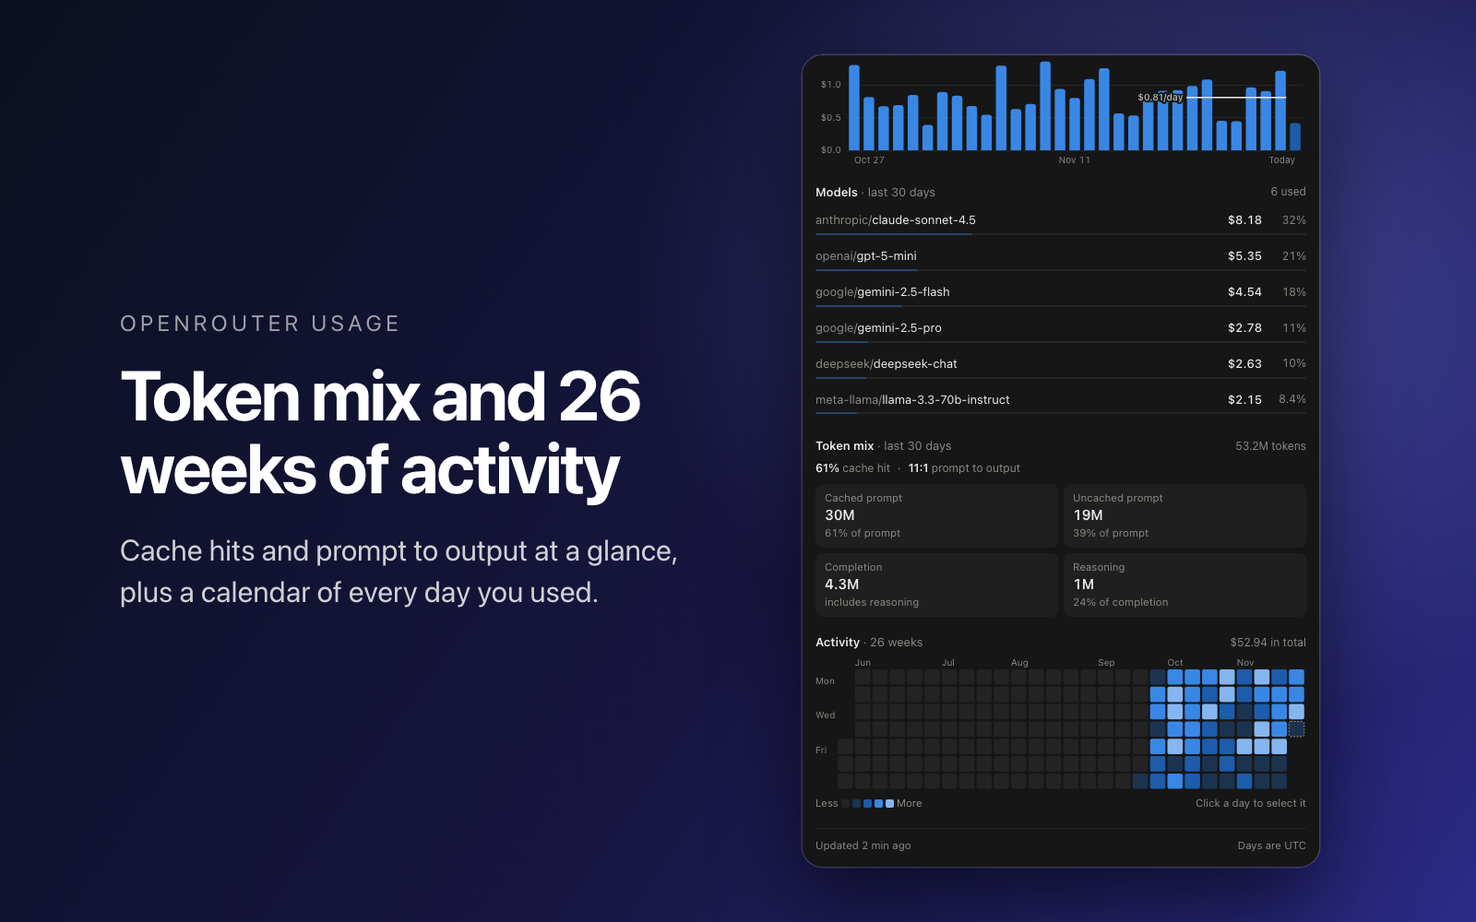
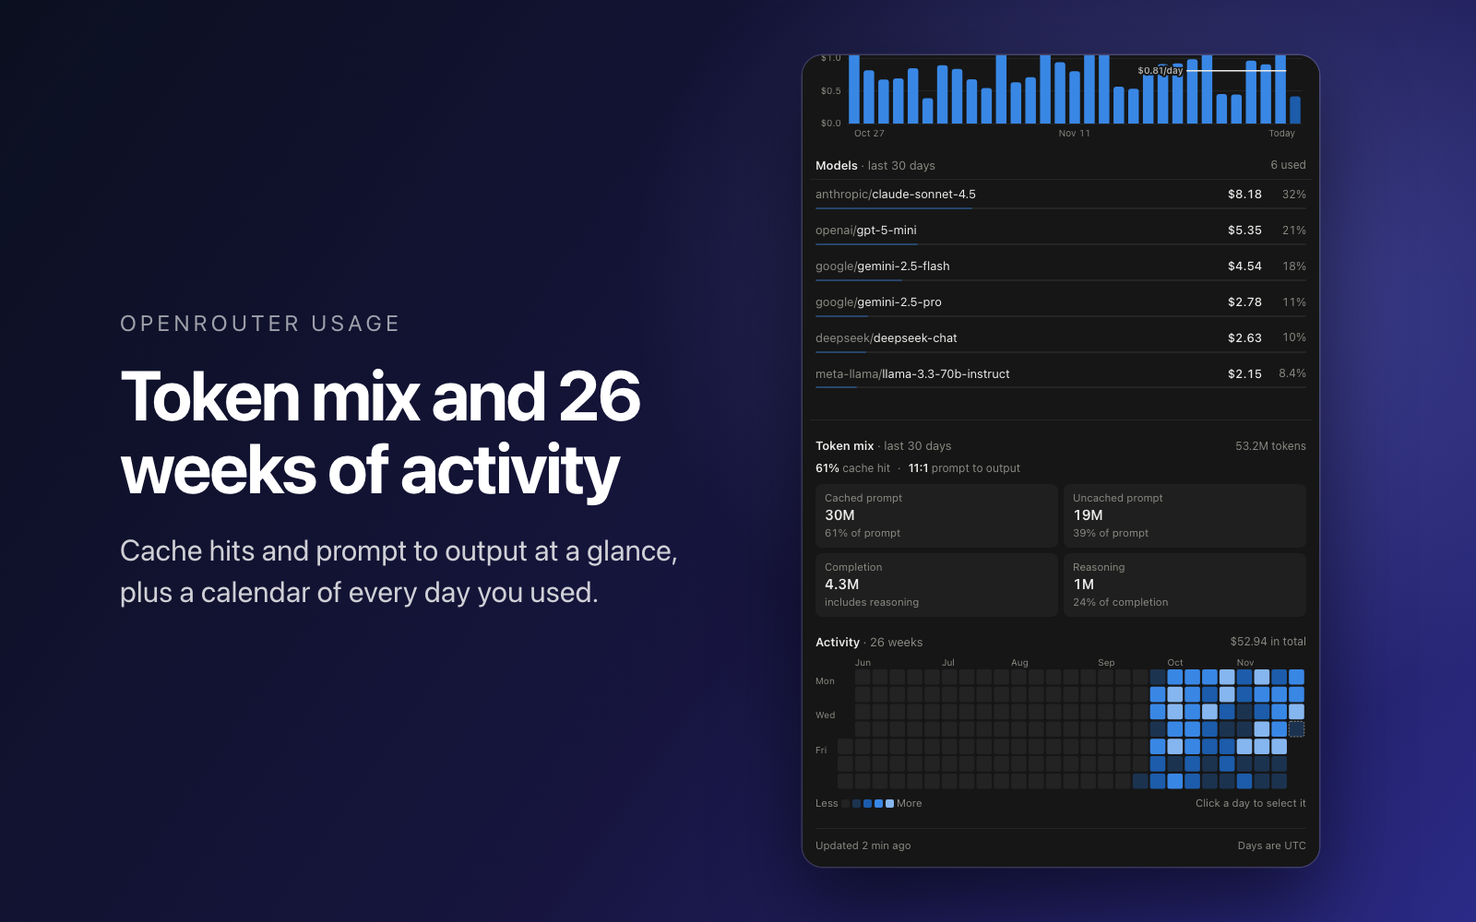
fix: group Settings, steady the Models box, hide the page scrollbar
Settings are grouped into Account, Appearance, Alerts and budgets,
Status bar and Data cards; the banner preview is half size beside its
colour and vivid controls. Models sit in a fixed-height box that scrolls
inside and keeps its scroll position, and they (with Token mix) change
only when a day is clicked; hovering updates just the readout. The page
scrollbar is hidden so it cannot appear and shift the layout.

Changed region(s): [[0.5312, 0.062, 0.9062, 0.465], [0.8125, 0.279, 0.875, 0.434]]

diff --git a/panel/index.html b/panel/index.html
@@ -55,6 +55,9 @@ html.light {
 
 * { box-sizing: border-box; }
 html, body { margin: 0; background: var(--bg); color: var(--fg); }
+/* The page scrolls without a scrollbar: one appearing and disappearing would shift the whole layout. */
+html, body { scrollbar-width: none; }
+html::-webkit-scrollbar, body::-webkit-scrollbar { display: none; width: 0; height: 0; }
 body { font: 13px/1.45 var(--orca-font-sans, system-ui, -apple-system, "Segoe UI", Roboto, sans-serif); -webkit-font-smoothing: antialiased; }
 button, input, select { font: inherit; color: inherit; }
 p { margin: 0; }
@@ -123,7 +126,6 @@ html.light .banner.c-graphite { --bn-bg: radial-gradient(90% 120% at 100% 0%, rg
 .banner.c-graphite.vivid, html.light .banner.c-graphite.vivid { --bn-bg: radial-gradient(120% 140% at 85% 20%, rgba(148,163,184,.55) 0%, rgba(148,163,184,0) 55%), linear-gradient(120deg, #0b0c0e 0%, #1f2329 45%, #475569 100%); }
 .banner.vivid, html.light .banner.vivid { --bn-fg: #ffffff; --bn-fg-2: rgba(255,255,255,.8); --bn-motif: #ffffff; --bn-btn: rgba(255,255,255,.14); --bn-line: rgba(255,255,255,.18); }
 .banner.vivid .bn-motif { width: min(62%, 300px); -webkit-mask-image: linear-gradient(90deg, transparent 0%, #000 30%); mask-image: linear-gradient(90deg, transparent 0%, #000 30%); }
-.bn-preview { margin: 4px 0 10px; pointer-events: none; }
 
 /* ---------- warnings ---------- */
 .warns { display: flex; flex-direction: column; gap: 6px; margin-top: -8px; }
@@ -191,7 +193,10 @@ h2 .scope { font-weight: 400; color: var(--muted); }
 .chart .ref-l { font-size: 10px; fill: var(--fg-2); font-weight: 600; }
 
 /* models */
-.mlist { list-style: none; margin: 4px 0 0; padding: 0; }
+.mbox { height: 262px; overflow-y: auto; overscroll-behavior: contain; margin-top: 4px; padding: 0 6px; margin-left: -6px; margin-right: -6px; border-top: 1px solid var(--hair); border-bottom: 1px solid var(--hair); scrollbar-width: thin; scrollbar-color: var(--border) transparent; }
+.mbox::-webkit-scrollbar { width: 6px; }
+.mbox::-webkit-scrollbar-thumb { background: var(--border); border-radius: 3px; }
+.mlist { list-style: none; margin: 0; padding: 0; }
 .mrow { display: grid; grid-template-columns: minmax(0, 1fr) auto 38px; column-gap: 10px; align-items: center; padding: 6px 6px 7px; margin: 0 -6px; width: calc(100% + 12px); border: 0; background: transparent; border-radius: 6px; text-align: left; font-size: 13px; }
 button.mrow { cursor: pointer; }
 button.mrow:hover { background: var(--hover); }
@@ -274,6 +279,19 @@ button.mrow:hover { background: var(--hover); }
 .switch:checked { background: var(--accent); }
 .switch:checked::after { left: 16px; }
 .saved { font-size: 12px; color: var(--ok); }
+.set-saved { margin: -10px 0 -8px; text-align: right; }
+.sgroup { display: flex; flex-direction: column; gap: 6px; }
+.sg-h h2 { font-size: 13px; }
+.sg-h p { font-size: 12px; color: var(--muted); margin-top: 1px; }
+.sg-card { border: 1px solid var(--border); border-radius: 10px; padding: 2px 12px; }
+.sg-card > .srow:first-child, .sg-card .look-ctl > .srow:first-child { border-top: 0; }
+.sg-card .conn { padding-top: 10px; }
+.look { display: grid; grid-template-columns: minmax(0, 1fr) minmax(0, 1fr); gap: 12px; align-items: center; }
+.look-ctl .srow { grid-template-columns: minmax(0, 1fr) auto; }
+.look-prev { padding: 8px 0; min-width: 0; }
+/* The preview is the real banner at half size. */
+.bn-preview { zoom: .5; margin: 0; pointer-events: none; }
+@media (max-width: 330px) { .look { grid-template-columns: minmax(0, 1fr); } .look-prev { padding-top: 0; } }
 .fine { font-size: 12px; color: var(--muted); }
 .fine + .fine { margin-top: 6px; }
 
@@ -309,7 +327,6 @@ const MONTHS = ['Jan', 'Feb', 'Mar', 'Apr', 'May', 'Jun', 'Jul', 'Aug', 'Sep', '
 const MONTHS_LONG = ['January', 'February', 'March', 'April', 'May', 'June', 'July', 'August', 'September', 'October', 'November', 'December'];
 const WD = ['Sun', 'Mon', 'Tue', 'Wed', 'Thu', 'Fri', 'Sat'];
 const SBC = [['credits', 'Nothing else'], ['credits-today', "Today's spend"], ['credits-days', 'Days left']];
-const TOP_MODELS = 6;
 const HEAT_DAYS = 182;
 const WEEKLY_AFTER = 92;   // the All range draws weekly bars once it holds more days than this
 
@@ -357,7 +374,6 @@ const state = {
   pin: null,               // pinned date range: { from, to }
   pendingPin: null,        // a heatmap day to pin once the wider range has loaded
   model: null,             // model selected in the list (range mode)
-  modelsAll: false,
   inactiveOpen: false,
   heatFocus: null
 };
@@ -549,8 +565,9 @@ function aggregate(rep, r) {
 }
 const focusRange = () => state.pin || state.hover;
 const rangeLabel = (r) => (r.from === r.to ? dLong(r.from) : 'Week of ' + dShort(r.from));
+// Models and Token mix follow a selected (clicked) day only; hovering changes just the readout.
 const scopeLabel = (rep) => {
-  const f = focusRange();
+  const f = state.pin;
   if (f) return f.from === f.to ? dShort(f.from) : 'week of ' + dShort(f.from);
   return rep.range === 'all' ? 'all time' : 'last ' + RANGE_DAYS[rep.range] + ' days';
 };
@@ -657,25 +674,22 @@ function readoutHtml(rep) {
 }
 
 function modelsHtml(rep) {
-  const f = focusRange();
+  const f = state.pin;
   const head = (side) => `<div class="sec-h"><h2 id="h-models">Models <span class="scope">· ${esc(scopeLabel(rep))}</span></h2><span class="side">${side}</span></div>`;
   if (f) {
     const a = aggregate(rep, f);
-    if (a.todayOnly) return head('') + `<p class="note-row">OpenRouter reports a UTC day's per-model split after the day ends. Today's ${esc(money(rep.tiles.today))} so far comes from your key totals.</p>`;
+    if (a.todayOnly) return head('') + `<div class="mbox"><p class="note-row">OpenRouter reports a UTC day's per-model split after the day ends. Today's ${esc(money(rep.tiles.today))} so far comes from your key totals.</p></div>`;
     const ranked = Object.entries(a.byModel).filter(([, v]) => v > 0).sort((x, y) => y[1] - x[1]);
     const total = ranked.reduce((s, [, v]) => s + v, 0);
     const rows = ranked.map(([id, v]) => {
       const [vd, nm] = splitName(id);
       return `<li><div class="mrow" title="${esc(id)}"><span class="n"><span class="vd">${esc(vd)}</span>${esc(nm)}</span><span class="val">${esc(fmtV(v))}</span><span class="pct">${pct(total ? v / total : 0)}</span><span class="bar" aria-hidden="true"><i style="width:${Math.max(1, total ? (v / total) * 100 : 0).toFixed(1)}%"></i></span></div></li>`;
     }).join('');
-    return head(`${ranked.length} used`) + `<ul class="mlist">${rows || '<li class="note-row">No usage on this day.</li>'}</ul>`;
+    return head(`${ranked.length} used`) + `<div class="mbox"><ul class="mlist">${rows || '<li class="note-row">No usage on this day.</li>'}</ul></div>`;
   }
   const list = rep.models.slice().sort((x, y) => modelVal(y) - modelVal(x));
   const total = list.reduce((s, m) => s + modelVal(m), 0);
-  const top = list.length === TOP_MODELS + 1 ? TOP_MODELS + 1 : TOP_MODELS;
-  const shown = state.modelsAll ? list : list.slice(0, top);
-  const rest = list.slice(top);
-  const rows = shown.map((m) => {
+  const rows = list.map((m) => {
     const [vd, nm] = splitName(m.name);
     const v = modelVal(m);
     const open = state.model === m.name;
@@ -683,14 +697,7 @@ function modelsHtml(rep) {
       <span class="n"><span class="vd">${esc(vd)}</span>${esc(nm)}</span><span class="val">${esc(fmtV(v))}</span><span class="pct">${pct(total ? v / total : 0)}</span>
       <span class="bar" aria-hidden="true"><i style="width:${Math.max(1, total ? (v / total) * 100 : 0).toFixed(1)}%"></i></span></button>${open ? modelDetailHtml(rep, m) : ''}</li>`;
   }).join('');
-  let more = '';
-  if (rest.length && !state.modelsAll) {
-    const rv = rest.reduce((s, m) => s + modelVal(m), 0);
-    more = `<li><button type="button" class="mrow more" data-act="models-more" data-fk="models-more" aria-expanded="false"><span class="n">${rest.length} more model${rest.length === 1 ? '' : 's'}</span><span class="val">${esc(fmtV(rv))}</span><span class="pct">${pct(total ? rv / total : 0)}</span></button></li>`;
-  } else if (state.modelsAll && list.length > top) {
-    more = `<li><button type="button" class="mrow more" data-act="models-more" data-fk="models-more" aria-expanded="true"><span class="n">Show the top ${top} only</span><span></span><span></span></button></li>`;
-  }
-  return head(`${list.length} used`) + `<ul class="mlist">${rows || '<li class="note-row">No models in this range.</li>'}${more}</ul>`;
+  return head(`${list.length} used`) + `<div class="mbox" tabindex="-1"><ul class="mlist">${rows || '<li class="note-row">No models in this range.</li>'}</ul></div>`;
 }
 
 function modelDetailHtml(rep, m) {
@@ -709,7 +716,7 @@ function modelDetailHtml(rep, m) {
 }
 
 function mixHtml(rep) {
-  const f = focusRange();
+  const f = state.pin;
   const head = (side) => `<div class="sec-h"><h2 id="h-mix">Token mix <span class="scope">· ${esc(scopeLabel(rep))}</span></h2><span class="side">${side}</span></div>`;
   let x = rep.mix;
   if (f) {
@@ -861,10 +868,8 @@ function heatReadout(date) {
 function updateFocus() {
   const rep = state.report;
   if (!rep || state.tab !== 'usage') return;
-  const ro = $('#u-readout'), mo = $('#u-models'), mx = $('#u-mix');
+  const ro = $('#u-readout');
   if (ro) ro.innerHTML = readoutHtml(rep);
-  if (mo) mo.innerHTML = modelsHtml(rep);
-  if (mx) mx.innerHTML = mixHtml(rep);
   const f = focusRange();
   const bs = buckets(rep);
   const fi = f ? bs.findIndex((b) => f.from >= b.from && f.from <= b.to) : -1;
@@ -875,7 +880,6 @@ function pinRange(r) {
   const same = state.pin && r && state.pin.from === r.from && state.pin.to === r.to;
   state.pin = same ? null : r;
   state.hover = null;
-  state.modelsAll = false;
   if (state.pin) state.model = null;
   render();
 }
@@ -954,47 +958,41 @@ function settingsHtml() {
   const row = (t, d, ctl, dis) => `<div class="srow${dis ? ' dis' : ''}"><div><div class="t">${t}</div>${d ? `<div class="d">${d}</div>` : ''}</div>${ctl}</div>`;
   const num = (key, label, pre, suf, attrs) => `<label class="num">${pre || ''}<input type="number" inputmode="decimal" ${attrs} value="${esc(s[key])}" aria-label="${esc(label)}" data-set="${key}" data-fk="set:${key}">${suf || ''}</label>`;
   const sw = (key, label) => `<input type="checkbox" class="switch" role="switch" aria-label="${esc(label)}" data-set="${key}" data-fk="set:${key}"${s[key] ? ' checked' : ''}>`;
+  // One group: a heading with a one-line purpose, then its rows in a card.
+  const group = (id, title, about, body) => `<section class="sgroup" aria-labelledby="h-${id}"><div class="sg-h"><h2 id="h-${id}">${title}</h2>${about ? `<p>${about}</p>` : ''}</div><div class="sg-card">${body}</div></section>`;
   const r = state.connRes;
   const conn = state.confirmDisc
     ? `<div class="confirm"><span>Remove the stored key from Orca?</span><button type="button" class="btn danger" data-act="disconnect-yes" data-fk="disconnect-yes">Disconnect</button><button type="button" class="btn ghost" data-act="disconnect-no" data-fk="disconnect-no">Cancel</button></div>`
     : `<button type="button" class="btn" data-act="conn-test" data-fk="conn-test">${state.connBusy ? '<span class="spinner" aria-hidden="true"></span>Testing…' : 'Test connection'}</button><button type="button" class="btn" data-act="replace" data-fk="replace" aria-expanded="${state.replaceOpen}">Replace key</button><button type="button" class="btn ghost danger" data-act="disconnect-ask" data-fk="disconnect-ask">Disconnect</button>`;
   const recent = state.savedAt && Date.now() - state.savedAt < 1600;
-  const opts = !s
-    ? `<p class="${state.settingsErr ? 'err-t' : 'muted'}">${state.settingsErr ? 'Could not load settings: ' + esc(state.settingsErr) : 'Loading settings…'}</p>`
-    : `<section aria-labelledby="h-alerts">
-      <div class="sec-h"><h2 id="h-alerts">Refresh and alerts</h2><span id="set-saved" class="${recent ? 'saved' : 'side'}" role="status">${recent ? 'Saved' : 'Saves when you leave a field'}</span></div>
-      ${row('Refresh every', 'How often Orca checks OpenRouter', num('refreshMinutes', 'Refresh interval in minutes', '', 'min', 'min="1" max="120" step="1"'))}
-      ${row('Low-balance alert', 'Warn when credits drop below this. 0 turns it off.', num('lowBalanceUsd', 'Low balance alert in dollars', '$', '', 'min="0" step="any"'))}
-      ${row('Daily budget', "Notify once when today's spend passes it. 0 turns it off.", num('dailyBudgetUsd', 'Daily budget in dollars', '$', '', 'min="0" step="any"'))}
-      ${row('Monthly budget', 'Warn when spend or its pace passes it. 0 turns it off.', num('monthlyBudgetUsd', 'Monthly budget in dollars', '$', '', 'min="0" step="any"'))}
-      ${row('Desktop notifications', 'For low balance and budgets', sw('notifications', 'Desktop notifications'))}
-    </section>
-    <section aria-labelledby="h-sb">
-      <h2 id="h-sb">Status bar</h2>
-      ${row('Show credits in the status bar', '', sw('statusBar', 'Show credits in the status bar'))}
-      ${row('Next to credits', '', `<select class="select" aria-label="Status bar shows" data-set="statusBarContent" data-fk="set:statusBarContent"${s.statusBar ? '' : ' disabled'}>${SBC.map(([v, l]) => `<option value="${v}"${s.statusBarContent === v ? ' selected' : ''}>${esc(l)}</option>`).join('')}</select>`, !s.statusBar)}
-    </section>
-    <section aria-labelledby="h-look">
-      <h2 id="h-look">Banner</h2>
-      ${state.report ? bannerHtml(true) : ''}
-      ${row('Colour', '', `<select class="select" aria-label="Banner colour" data-set="bannerColor" data-fk="set:bannerColor">${BANNER_COLORS.map(([v, l]) => `<option value="${v}"${s.bannerColor === v ? ' selected' : ''}>${l}</option>`).join('')}</select>`)}
-      ${row('Vivid', 'Bold and saturated instead of the quiet gradient', sw('bannerVivid', 'Vivid banner'))}
-    </section>
-    <section aria-labelledby="h-spendset">
-      <h2 id="h-spendset">Spend</h2>
-      ${row('Count BYOK usage', 'Include requests made with your own provider keys', sw('includeByok', 'Count BYOK usage in spend'))}
-    </section>`;
-  return `<section aria-labelledby="h-conn">
-      <h2 id="h-conn">Connection</h2>
-      <div class="conn"><span class="ic">${ICON.check}</span><div class="who"><b>${esc(st.keyLabel || 'Management key')}</b><div>Management key, stored in Orca's encrypted secrets</div></div></div>
-      ${r ? `<p class="conn-res ${r.ok ? 'ok-t' : 'err-t'}" role="${r.ok ? 'status' : 'alert'}">${r.ok ? 'Connected as ' + esc(r.label) : esc(r.error)}</p>` : ''}
-      <div class="conn-acts">${conn}</div>
-      ${state.replaceOpen ? keyFormHtml() : ''}
-    </section>
-    ${opts}
+  const account = group('conn', 'Account', '', `
+    <div class="conn"><span class="ic">${ICON.check}</span><div class="who"><b>${esc(st.keyLabel || 'Management key')}</b><div>Management key, stored in Orca's encrypted secrets</div></div></div>
+    ${r ? `<p class="conn-res ${r.ok ? 'ok-t' : 'err-t'}" role="${r.ok ? 'status' : 'alert'}">${r.ok ? 'Connected as ' + esc(r.label) : esc(r.error)}</p>` : ''}
+    <div class="conn-acts">${conn}</div>
+    ${state.replaceOpen ? keyFormHtml() : ''}`);
+  if (!s) return account + `<p class="${state.settingsErr ? 'err-t' : 'muted'}">${state.settingsErr ? 'Could not load settings: ' + esc(state.settingsErr) : 'Loading settings…'}</p>`;
+  const look = group('look', 'Appearance', '', `<div class="look">
+      <div class="look-ctl">
+        ${row('Colour', '', `<select class="select" aria-label="Banner colour" data-set="bannerColor" data-fk="set:bannerColor">${BANNER_COLORS.map(([v, l]) => `<option value="${v}"${s.bannerColor === v ? ' selected' : ''}>${l}</option>`).join('')}</select>`)}
+        ${row('Vivid', 'Bold instead of quiet', sw('bannerVivid', 'Vivid banner'))}
+      </div>
+      <div class="look-prev">${state.report ? bannerHtml(true) : ''}</div>
+    </div>`);
+  const alerts = group('alerts', 'Alerts and budgets', 'A value of 0 turns an alert off. Budgets only warn; usage is never blocked.', `
+    ${row('Low balance', 'When credits drop below', num('lowBalanceUsd', 'Low balance alert in dollars', '$', '', 'min="0" step="any"'))}
+    ${row('Daily budget', "When today's spend passes", num('dailyBudgetUsd', 'Daily budget in dollars', '$', '', 'min="0" step="any"'))}
+    ${row('Monthly budget', 'When spend or its pace passes', num('monthlyBudgetUsd', 'Monthly budget in dollars', '$', '', 'min="0" step="any"'))}
+    ${row('Desktop notifications', 'Also notify outside the panel', sw('notifications', 'Desktop notifications'))}`);
+  const bar = group('sb', 'Status bar', '', `
+    ${row('Show credits', '', sw('statusBar', 'Show credits in the status bar'))}
+    ${row('Next to credits', '', `<select class="select" aria-label="Status bar shows" data-set="statusBarContent" data-fk="set:statusBarContent"${s.statusBar ? '' : ' disabled'}>${SBC.map(([v, l]) => `<option value="${v}"${s.statusBarContent === v ? ' selected' : ''}>${esc(l)}</option>`).join('')}</select>`, !s.statusBar)}`);
+  const data = group('data', 'Data', '', `
+    ${row('Refresh every', 'How often Orca checks OpenRouter', num('refreshMinutes', 'Refresh interval in minutes', '', 'min', 'min="1" max="120" step="1"'))}
+    ${row('Count BYOK usage', 'Requests made with your own provider keys', sw('includeByok', 'Count BYOK usage in spend'))}`);
+  return `<p id="set-saved" class="${recent ? 'saved' : 'side'} set-saved" role="status">${recent ? 'Saved' : 'Changes save on their own'}</p>
+    ${account}${look}${alerts}${bar}${data}
     <section aria-label="About the numbers">
-      <p class="fine">Today is approximate because it comes from key totals. Ranges longer than 30 days fill in from the day you installed.</p>
-      <p class="fine">Days follow UTC. For you a new day starts at ${esc(utcDayStartLocal())}.</p>
+      <p class="fine">Today is approximate because it comes from key totals. Ranges longer than 30 days fill in from the day you installed. Days follow UTC; for you a new day starts at ${esc(utcDayStartLocal())}.</p>
     </section>`;
 }
 
@@ -1057,7 +1055,11 @@ function render() {
     const k = el.id || el.getAttribute('data-fk');
     if (k && (el.type === 'password' || el === active)) keep[k] = { v: el.value, a: el.selectionStart, b: el.selectionEnd };
   });
+  const box = app.querySelector('#u-models .mbox');
+  const boxTop = box ? box.scrollTop : 0;
   app.innerHTML = bodyHtml();
+  const box2 = app.querySelector('#u-models .mbox');
+  if (box2 && boxTop) box2.scrollTop = boxTop;
   Object.keys(keep).forEach((id) => {
     const el = document.getElementById(id) || [...app.querySelectorAll('input[data-fk]')].find((e) => e.getAttribute('data-fk') === id);
     if (el && el.value !== keep[id].v) {
@@ -1241,7 +1243,7 @@ function saveSetting(field, value) {
     setTimeout(() => {
       if (state.savedAt !== at) return;
       const m = $('#set-saved');
-      if (m) { m.className = 'side'; m.textContent = 'Saves when you leave a field'; }
+      if (m) { m.className = 'side set-saved'; m.textContent = 'Changes save on their own'; }
     }, 1500);
     if (field === 'includeByok' || field === 'monthlyBudgetUsd' || field === 'lowBalanceUsd') loadReport(true);
   }).catch((e) => {
@@ -1285,7 +1287,7 @@ app.addEventListener('click', (e) => {
   switch (el.dataset.act) {
     case 'tab': if (state.tab !== v) selectTab(v); break;
     case 'range':
-      if (state.range !== v) { state.range = v; state.pin = null; state.hover = null; state.model = null; state.modelsAll = false; savePrefs(); loadReport(); }
+      if (state.range !== v) { state.range = v; state.pin = null; state.hover = null; state.model = null; savePrefs(); loadReport(); }
       break;
     case 'measure':
       if (state.measure !== v) { state.measure = v; savePrefs(); loadReport(); }
@@ -1294,7 +1296,6 @@ app.addEventListener('click', (e) => {
       if (state.keysRange !== v) { state.keysRange = v; savePrefs(); render(); }
       break;
     case 'model': state.model = state.model === v ? null : v; render(); break;
-    case 'models-more': state.modelsAll = !state.modelsAll; render(); break;
     case 'unpin': state.pin = null; state.hover = null; render(); break;
     case 'inactive': state.inactiveOpen = !state.inactiveOpen; render(); break;
     case 'menu': state.menu = !state.menu; render(); if (state.menu) focusFk('export:daily'); break;

diff --git a/CHANGELOG.md b/CHANGELOG.md
@@ -7,13 +7,14 @@ A redesign: one answer first, detail on demand.
 - Three tabs instead of five: **Usage**, **Keys** and **Settings**. The Ledger and the separate Models tab are folded into Usage.
 - The banner stays, quieter: credits left, how long they last at your recent rate, and an **Add credits** button.
 - Warnings sit under the banner, each with an × to close it: credits running out, keys near or at their limit, keys expiring or expired, and a monthly budget being passed. A closed warning comes back only when something changes, such as a new day or a new month.
-- **Usage** leads with Today and this month (with budget progress), then a one-colour daily chart with your 7-day burn drawn over the days it averages. Hover a bar to preview a day, or click it to select it: the Models list and Token mix switch to that day, with every model listed.
-- Click a model to open its details inline (requests, cost per request, change against the previous period, tokens, cache hit, cost per 1M tokens) and see its share in every bar.
+- **Usage** leads with Today and this month (with budget progress), then a one-colour daily chart with your 7-day burn drawn over the days it averages. Hover a bar to read that day's total; click it to select the day, and the Models list and Token mix switch to it.
+- Models sit in a fixed-height box that scrolls inside, with every model listed, so the page does not jump around. Click a model to open its details inline (requests, cost per request, change against the previous period, tokens, cache hit, cost per 1M tokens) and see its share in every bar.
 - **Token mix** is now four numbers that follow the range or the selected day: cached prompt, uncached prompt, completion and reasoning, with the cache hit rate and the prompt-to-output ratio.
 - The **activity heatmap** covers 26 weeks, follows Cost or Tokens, and selects a day when you click it, widening the range when needed.
 - **Keys** has its own 7D, 30D and All switch, shows badges only when a key needs attention, and folds inactive keys away.
-- Settings keep the same options in a calmer layout. CSV export moved to the ⋯ menu.
-- Choose the banner's **colour** (purple, gold, teal, rose or graphite) and switch **Vivid** on for a bold version, with a live preview in Settings. Both are regular plugin settings, so they also appear in Orca's settings. When credits run short, the banner keeps your colour and shows a warning icon; the warnings below it carry the details.
+- Settings keep the same options, grouped into Account, Appearance, Alerts and budgets, Status bar and Data. CSV export moved to the ⋯ menu.
+- The page no longer shows a scrollbar that comes and goes and shifts the layout.
+- Choose the banner's **colour** (purple, gold, teal, rose or graphite) and switch **Vivid** on for a bold version, with a half-size live preview beside the controls in Settings. Both are regular plugin settings, so they also appear in Orca's settings. When credits run short, the banner keeps your colour and shows a warning icon; the warnings below it carry the details.
 - Follows Orca's light and dark themes for the charts and accents as well as the surfaces.
 - No new permissions. Orca may ask you to review the new banner settings when you update.
 

diff --git a/README.md b/README.md
@@ -11,7 +11,7 @@ Requires Orca 1.4.248 or later and an OpenRouter **management key** (OpenRouter 
 - A banner with your **credits left**, how long they last at your recent burn rate, and an **Add credits** button, in the colour you choose.
 - **Warnings** under the banner for credits running out, keys near or at their limit, expiring keys and a passed monthly budget. Each closes with an ×.
 - Three tabs:
-  - **Usage**: today and this month (with an optional monthly budget), a daily chart for 7 days, 30 days or all time in Cost or Tokens, your models, the token mix and a 26-week activity heatmap. Hover or click a day, in the chart or the heatmap, to see that day's models and token mix. Click a model for its details.
+  - **Usage**: today and this month (with an optional monthly budget), a daily chart for 7 days, 30 days or all time in Cost or Tokens, your models, the token mix and a 26-week activity heatmap. Hover a bar to read its day; click a day, in the chart or the heatmap, to see its models and token mix. Click a model for its details.
   - **Keys**: spend per API key with its own 7D, 30D and All switch, limit meters, and badges only for keys that need attention.
   - **Settings**: verify, replace or disconnect your key, refresh interval, alerts, budgets, the status bar item, BYOK counting, and the banner's colour and vivid switch, with a live preview.
 - **CSV exports** of daily totals, models or API keys from the ⋯ menu.
